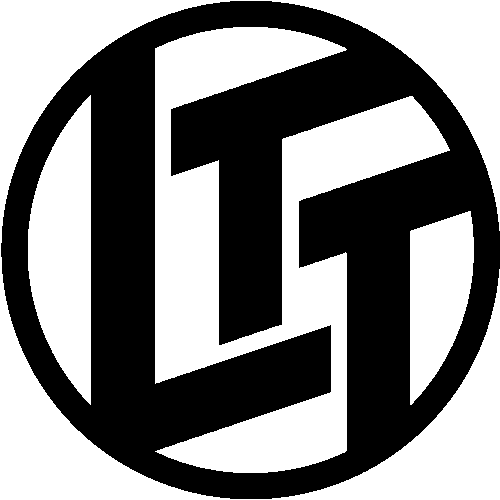
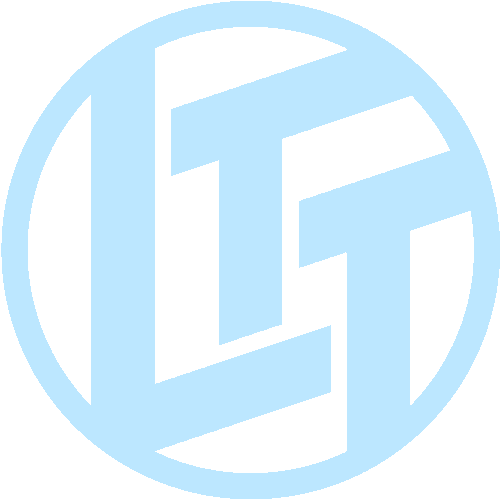
v5.0.1
Contact update (light/dark mode icons)

diff --git a/contact/index.html b/contact/index.html
@@ -31,7 +31,12 @@
 		<meta name="twitter:image" content="../img/link.wal03preview.png" />
 
 		<style>
-
+			.lightimg {
+				display: none;
+			}
+			.darkimg {
+				display: none;
+			}
 			.cards {
 				flex-direction: wrap;
 			}
@@ -48,17 +53,22 @@
 					cursor: pointer;
 					font-weight: medium;
 				}
-				#ltt img {
-					filter: invert(1);
+				#ltt .img {
+					background-image:url(../img/icon_V6.png);
+					height: 60px;
+					margin: 0;
+					float: left;
+					width: 30px;
 			}
-			#mastodon img {
-				filter: invert(1);
+			.darkimg {
+				display: block;
 			}
 
 			#ltt:hover {
 					filter: brightness(0.5) hue-rotate(90);
 			}
 			}
+
 			@media only screen and (prefers-color-scheme: light) {
 				.contact-card {
 					color: #2d9cdb;
@@ -72,6 +82,9 @@
 					transition: 0.2s all, 0.4s background, 0.4s color;
 					cursor: pointer;
 				}
+				.lightimg {
+				display: block;
+			}
 			}
 			@media only screen and (max-width: 1211px) {
 				.contact-card {
@@ -200,19 +213,19 @@
 					<div class="contacti"><i class="fa-brands fa-wikipedia-w"></i><div class="contactxt">ikipedia</div> </div>
 					<br />
 				</button>
-				<button class="contact-card" id="github" title="look at my github" onclick="window.open('https://en.wikipedia.org/wiki/User:02es');">
+				<button class="contact-card" id="github" title="look at my github" onclick="window.open('https://github.com/wall03');">
 					<br />
 					<div class="contacti"><i class="fa-brands fa-github"></i><div class="contactxt">Github</div></div>
 					<br />
 				</button>
-				<button class="contact-card" id="ltt" title="me on the ltt forum" onclick="window.open('https://en.wikipedia.org/wiki/User:02es');">
+				<button class="contact-card" id="ltt" title="me on the ltt forum" onclick="window.open('https://linustechtips.com/profile/720852-wall03/');">
 					<br />
-					<div class="contacti"><img src="../img/icon_V6.png"><div class="contactxt">LTT Forum</div></div>
+					<div class="contacti"><img class="darkimg" src="../img/icon_V6.png"><img class="lightimg" src="../img/icon_V6light.png"><div class="contactxt">LTT Forum</div></div>
 					<br />
 				</button>
-				<button class="contact-card" id="mastodon" title="my mastodon acct." onclick="window.open('https://en.wikipedia.org/wiki/User:02es');">
+				<button class="contact-card" id="mastodon" title="my mastodon acct." onclick="window.open('https://urbanists.social/@wall03');">
 					<br />
-					<div class="contacti"><img src="../img/mastodon.png"><div class="contactxt">Mastodon</div></div>
+					<div class="contacti"><img class="darkimg" src="../img/mastodon.png"><img class="lightimg" src="../img/mastodonlight.png"><div class="contactxt">Mastodon</div></div>
 					<br />
 				</button>
 				<button class="contact-card" id="twitter" title="my twitter" onclick="window.open('https://twitter.com/not_wall03');">
